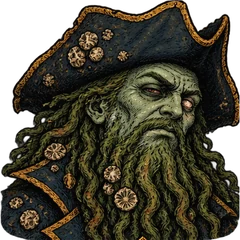
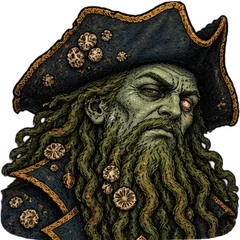
Portraits cut along the drawings, not the grid: Banshee keeps her hair and shawl, Faust loses the stray strand

diff --git a/oh-app.js b/oh-app.js
@@ -207,7 +207,7 @@ class GameController {
     const onRight = pos === "right" || pos === "topright";   // the outer side; everyone looks in to the middle
     // a portrait drawn in three views shows the one that looks in, rather than being mirrored
     const file = PORTRAIT_VIEWS[who] ? `${who}-${onRight ? "l" : "r"}` : who;
-    if (p.dataset.file !== file) { p.dataset.file = file; p.dataset.who = who; p.style.backgroundImage = `url("img/opp-${file}.webp")`; }
+    if (p.dataset.file !== file) { p.dataset.file = file; p.dataset.who = who; p.style.backgroundImage = `url("img/opp-${file}.webp?v=2")`; }
     p.classList.toggle("on-right", onRight);
     p.style.setProperty("--lean", onRight ? "-1" : "1");   // which way is "towards the table" for a reaction
     p.classList.toggle("flip", onRight && !PORTRAIT_VIEWS[who] && !PORTRAIT_FRONT[who]);

diff --git a/index.html b/index.html
@@ -476,7 +476,7 @@
   <script src="./oh-ai.js?v=224"></script>
   <script src="./bv-more.js?v=224"></script>
   <script src="./oh-souls.js?v=226"></script>
-  <script src="./oh-app.js?v=253"></script>
+  <script src="./oh-app.js?v=254"></script>
   <script>
     BVMore.init({ key: "oh-hell-extended", title: "Oh Hell! Extended", others: ["drakeharbour", "german-whist", "artifact"],
       shareText: "Bid your tricks, then win exactly that many. Play Oh Hell! Extended.",

diff --git a/tools/cut-portraits.py b/tools/cut-portraits.py
@@ -1,7 +1,7 @@
 # Cuts the opponent portraits out of infernal/infernal-opponents-sheet-1/2.png (4 x 2 grids, transparent
 # backgrounds) into img/opp-<name>.webp, keeping only each portrait's own shape: thin slivers of the
 # neighbouring portraits that cross into a cell are dropped.
-from PIL import Image
+from PIL import Image, ImageChops
 
 NAMES = [["lilith", "persephone", "lamia", "loki", "old-nick", "bub", "cerberus", "brimstone"],
          ["hellga", "davy-jones", "banshee", "faust", "morgana", "jezebel", "player"]]
@@ -55,11 +55,70 @@ def longest_run(flags):
     return bs, bs + best
 
 
+def sheet_masks(sheet, cols, rows):
+    """Which pixels belong to which portrait, following the drawings rather than the grid: every connected
+    piece of the sheet goes to the cell holding most of it, so hair that strays over a grid line stays with its
+    owner. (A piece that really spans two portraits - joined where they touch - is split along the grid.)"""
+    from PIL import ImageFilter
+    w, h = sheet.size; cw, ch = w // cols, h // rows
+    a = sheet.getchannel("A"); px = a.load()
+    label = [0] * (w * h); comps = [None]; sizes = [0]; seeds = [None]
+    for y0 in range(h):
+        for x0 in range(w):
+            if label[y0 * w + x0] or px[x0, y0] <= 100: continue
+            cid = len(comps); label[y0 * w + x0] = cid; stack = [(x0, y0)]; cells = {}
+            while stack:
+                x, y = stack.pop()
+                cell = min(cols - 1, x // cw) + cols * min(rows - 1, y // ch); cells[cell] = cells.get(cell, 0) + 1
+                for nx, ny in ((x + 1, y), (x - 1, y), (x, y + 1), (x, y - 1)):
+                    if 0 <= nx < w and 0 <= ny < h and not label[ny * w + nx] and px[nx, ny] > 100:
+                        label[ny * w + nx] = cid; stack.append((nx, ny))
+            ranked = sorted(cells.items(), key=lambda t: -t[1])
+            split = len(ranked) > 1 and ranked[1][1] > 0.15 * ranked[0][1] and ranked[1][1] > 2000
+            # a split piece is only shared among the portraits it really belongs to (cells holding a good part of it)
+            comps.append([c for c, k in ranked if k > 2000] if split else ranked[0][0])
+            sizes.append(sum(cells.values())); seeds.append((x0, y0))
+    masks = [Image.new("L", (w, h), 0) for _ in range(cols * rows)]
+    mpx = [m.load() for m in masks]
+    # the figures themselves first; small loose bits (a stray lock of hair) wait
+    small = {cid for cid in range(1, len(comps)) if sizes[cid] < 20000 and not isinstance(comps[cid], list)}
+    def paint(only):
+        for y in range(h):
+            for x in range(w):
+                cid = label[y * w + x]
+                if not cid or (cid in small) != only: continue
+                owner = comps[cid]
+                if isinstance(owner, list):
+                    cell = min(cols - 1, x // cw) + cols * min(rows - 1, y // ch)
+                    if cell not in owner:   # the nearest of its own portraits' cells
+                        def gap(c):
+                            cx0, cy0 = (c % cols) * cw, (c // cols) * ch
+                            return max(cx0 - x, 0, x - cx0 - cw) + max(cy0 - y, 0, y - cy0 - ch)
+                        cell = min(owner, key=gap)
+                    owner = cell
+                mpx[owner][x, y] = 255
+    paint(False)
+    # each loose bit goes to the nearest figure: grow every figure outwards a step at a time, and a bit belongs
+    # to whichever reaches it first
+    grown = [m.copy() for m in masks]; pending = set(small)
+    for _ in range(80):
+        if not pending: break
+        grown = [g.filter(ImageFilter.MaxFilter(3)) for g in grown]
+        for cid in list(pending):
+            for i, g in enumerate(grown):
+                if g.getpixel(seeds[cid]):
+                    comps[cid] = i; pending.discard(cid); break
+    paint(True)
+    # take in the soft edge round each shape (the faint pixels the cut above left out)
+    return [m.filter(ImageFilter.MaxFilter(5)) for m in masks]
+
+
 for s, names in enumerate(NAMES):
     sheet = Image.open(f"infernal/infernal-opponents-sheet-{s + 1}.png").convert("RGBA")
-    cw, ch = sheet.width // 4, sheet.height // 2
+    masks = sheet_masks(sheet, 4, 2)
     for i, n in enumerate(names):
-        c = sheet.crop(((i % 4) * cw, (i // 4) * ch, (i % 4 + 1) * cw, (i // 4 + 1) * ch))
+        c = sheet.copy(); c.putalpha(ImageChops.multiply(sheet.getchannel("A"), masks[i]))
+        c = c.crop(masks[i].getbbox())
         c = keep_portrait(c)
         side = max(c.size)
         sq = Image.new("RGBA", (side, side), (0, 0, 0, 0))
